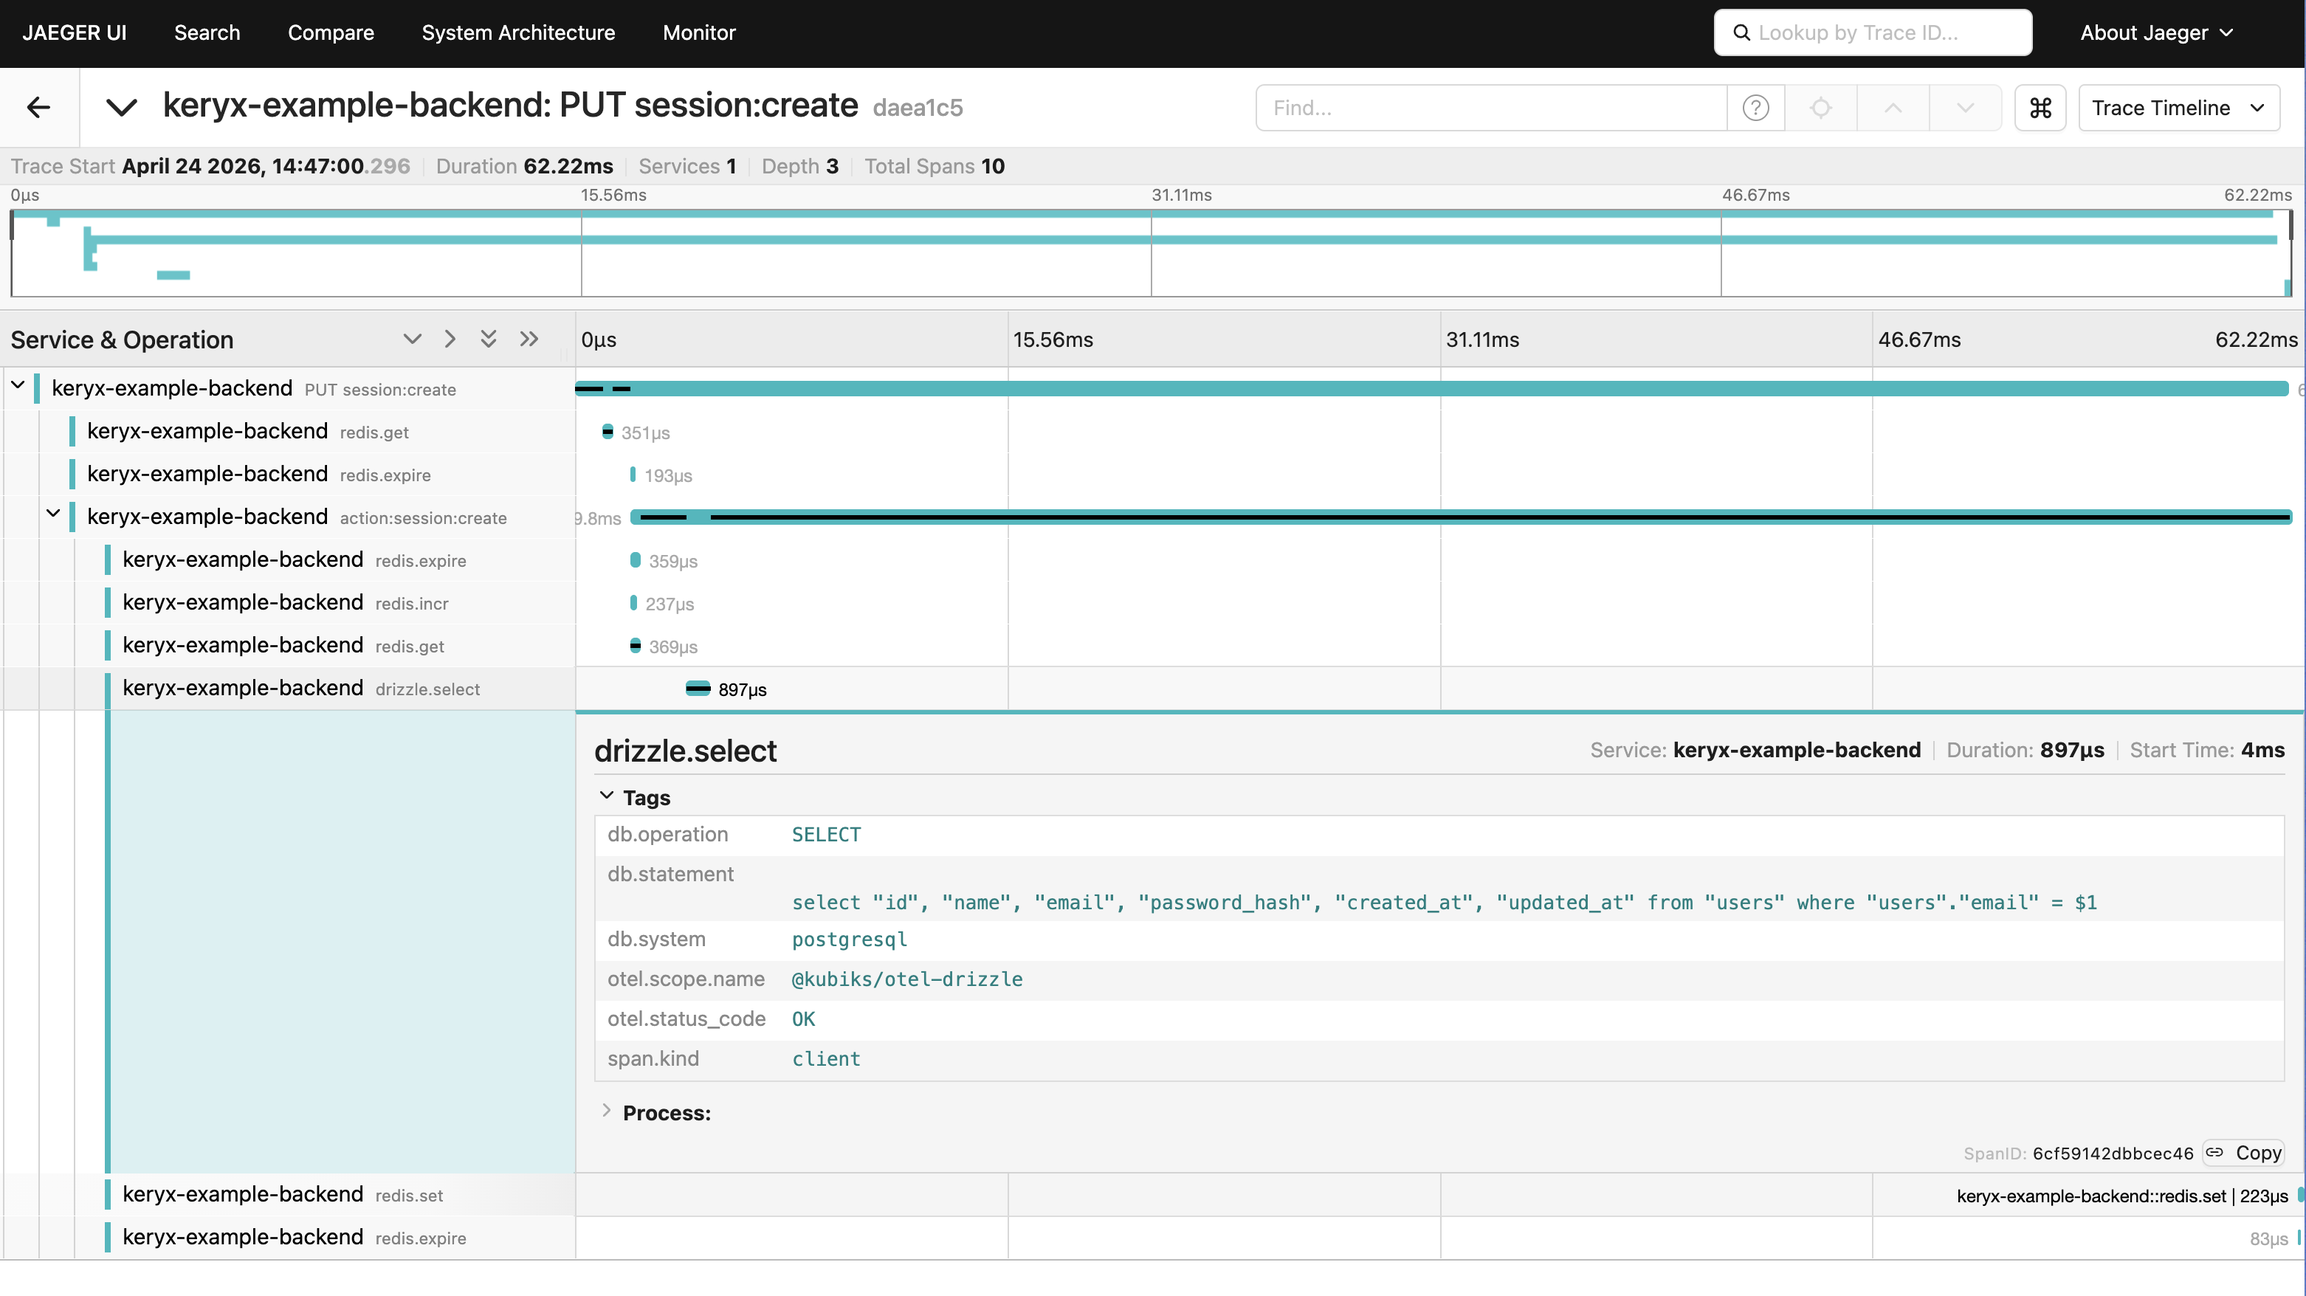
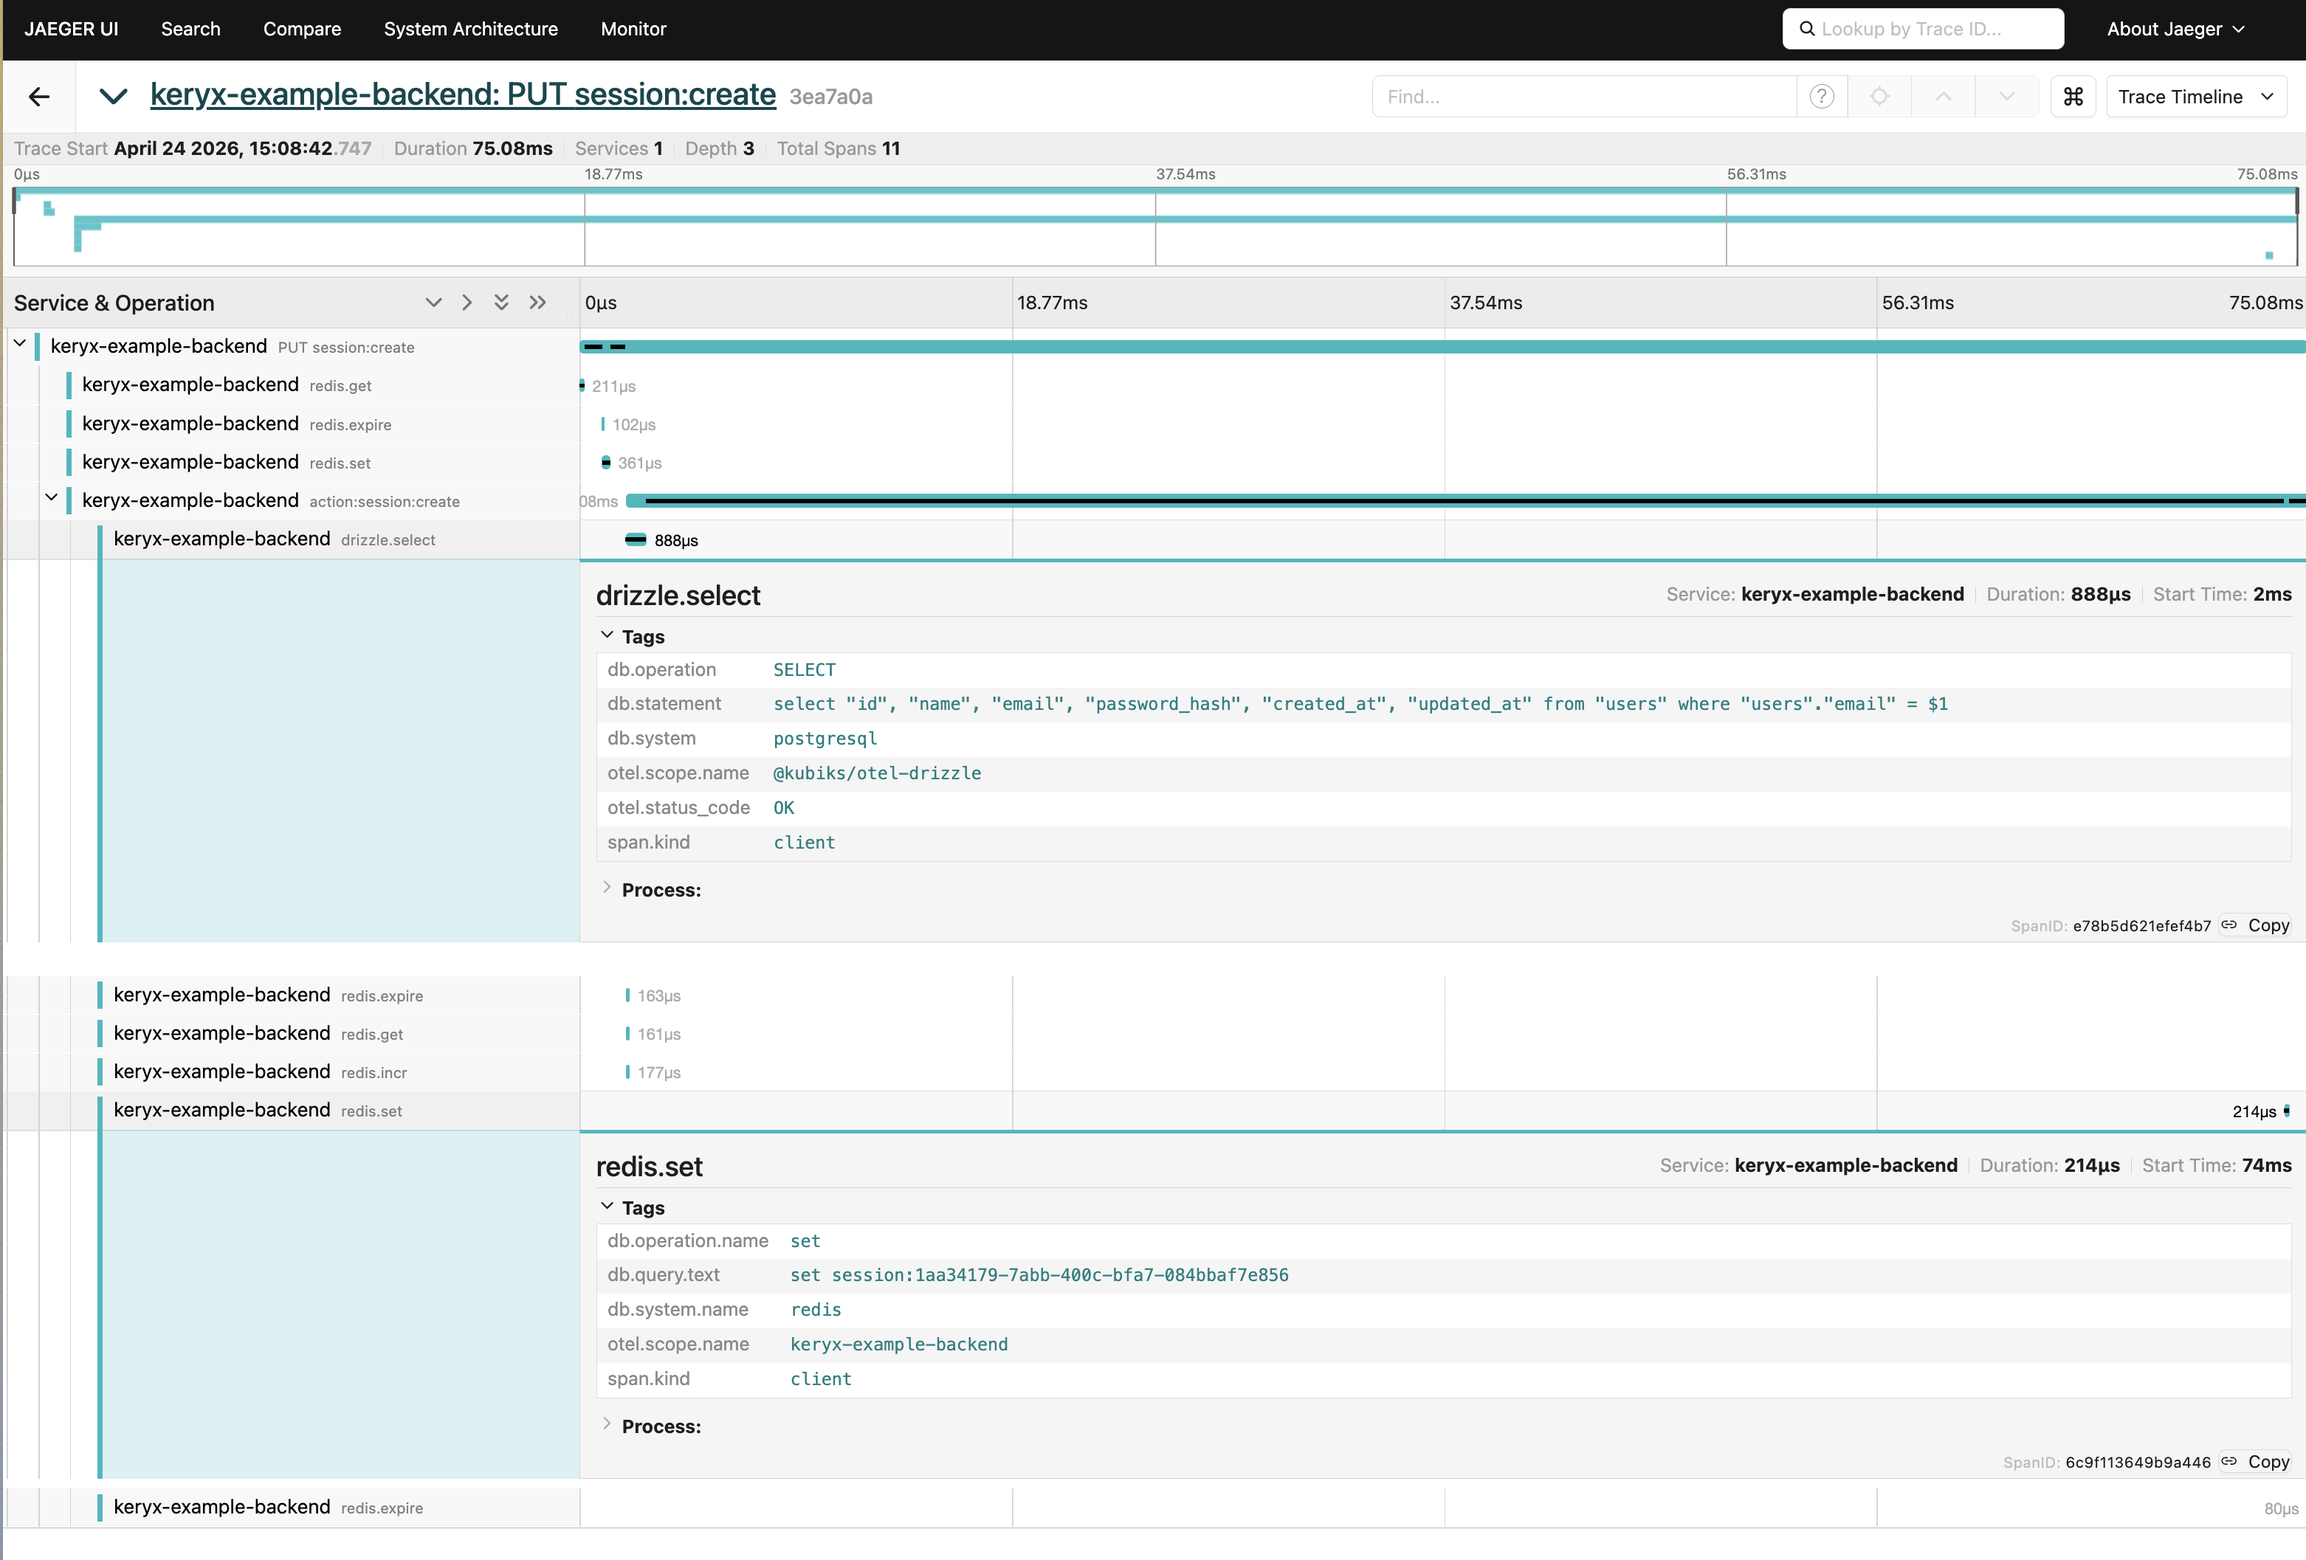
Replace tracing docs screenshot with one showing db.query.text
New screenshot has the redis.set detail pane open so readers can see
the captured `db.query.text: set session:1aa34179-…` attribute — which
motivates why the key-capture change is useful without requiring a
separate second image.

diff --git a/docs/plugins/tracing.md b/docs/plugins/tracing.md
@@ -47,7 +47,7 @@ OTEL_TRACING_ENABLED=true bun dev
 
 Open the UI at [http://localhost:16686](http://localhost:16686), pick `keryx-example-backend` (or whatever `OTEL_SERVICE_NAME` resolves to) in the service dropdown, and click **Find Traces**. A request to `/api/status` will show an HTTP span parenting an `action:*` span; actions that touch Redis or Postgres will show `redis.*` and `drizzle.*` children.
 
-![Jaeger trace for PUT session:create showing the HTTP span parenting an action:session:create span, with redis.get/set/incr/expire and drizzle.select spans nested as children](/images/tracing-jaeger-session-create.png)
+![Jaeger trace for PUT session:create: the HTTP span parents action:session:create, which in turn parents redis.get/set/incr/expire and drizzle.select child spans. The detail pane shows redis.set with db.query.text "set session:1aa34179-…" — the key is captured, the value is not.](/images/tracing-jaeger-session-create.png)
 
 Tear it down when you're done:
 
